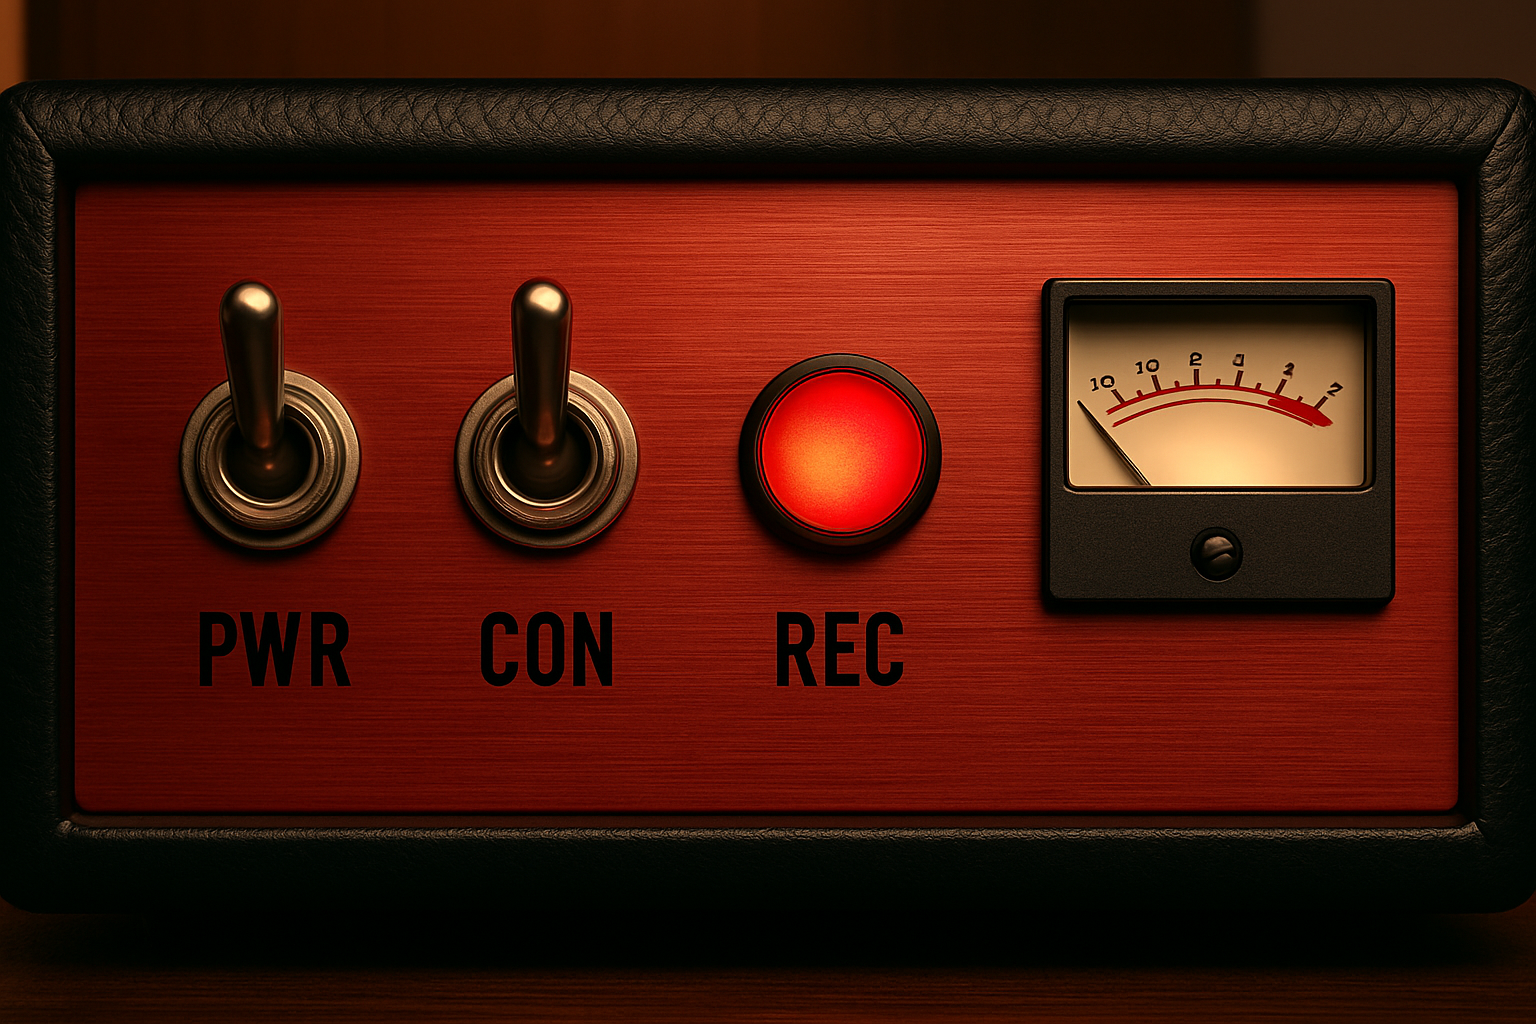
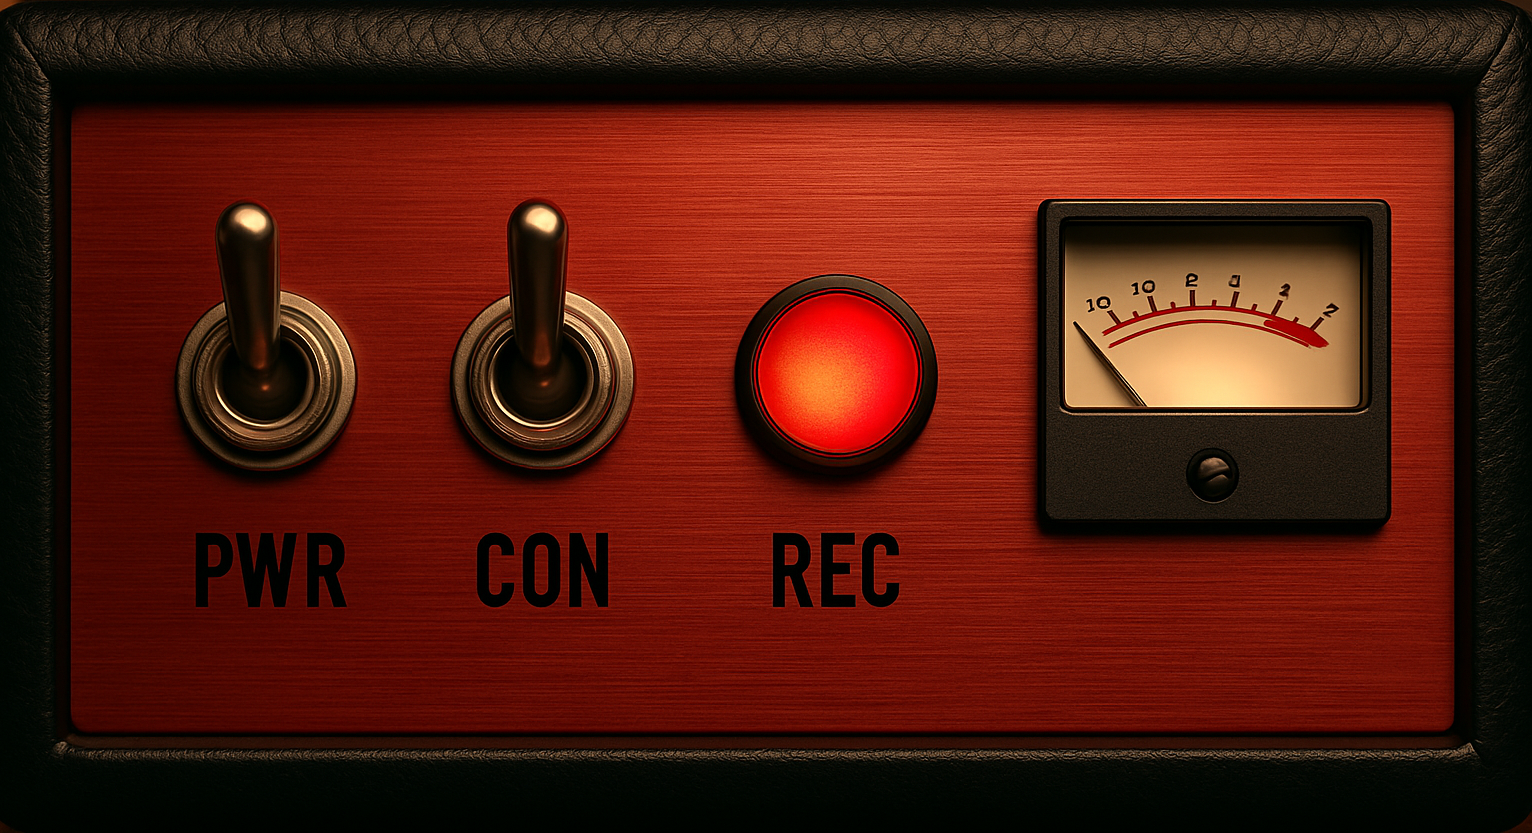
amp in the background

diff --git a/src/App.css b/src/App.css
@@ -63,10 +63,13 @@ h1 {
   width: 100%;
   overflow: hidden;
   background-color: #2b1f1a;
+  display: flex;
+  justify-content: center;
+  padding: 20px 0;
 }
 
 .banner img {
-  width: 100%;
+  width: 70%;
   height: auto;
   display: block;
   object-fit: contain;
@@ -83,34 +86,56 @@ h1 {
 }
 
 .button-row {
-  display: flex;
-  gap: 10px;
-  flex-wrap: wrap;
+  display: grid;
+  grid-template-columns: repeat(7, 1fr);
+  gap: 1px;
+  background-image: url('./assets/amp.png');
+  background-size: contain;
+  background-repeat: no-repeat;
+  background-position: center;
   padding: 20px;
-  background-color: #2b1f1a;
-  border-bottom: 1px solid #3a2a24;
+  border-radius: 8px;
+  margin: 20px auto;
+  position: relative;
+  width: 70%;
+  aspect-ratio: 16/9;
 }
 
 .button-row button {
-  padding: 8px 16px;
-  background: #56b3c3;
-  border: none;
-  color: #000;
+  position: relative;
+  z-index: 2;
+  background: rgba(43, 31, 26, 0.8);
+  border: 1px solid rgba(255, 181, 71, 0.3);
+  color: #ffb547;
+  padding: 12px;
   cursor: pointer;
-  border-radius: 5px;
-  font-family: 'Orbitron', sans-serif;
-  transition: all 0.2s ease;
+  transition: all 0.3s ease;
+  border-radius: 4px;
+  font-weight: 500;
+  text-transform: uppercase;
+  font-size: 0.9rem;
+  letter-spacing: 0.5px;
+  height: 100%;
+  display: flex;
+  align-items: center;
+  justify-content: center;
+  text-align: center;
 }
 
-.button-row button:hover:not(:disabled) {
-  background: #4a9eac;
+.button-row button:hover {
+  background: rgba(255, 181, 71, 0.2);
+  border-color: #ffb547;
+  transform: translateY(-2px);
+  box-shadow: 0 4px 12px rgba(255, 181, 71, 0.2);
 }
 
 .button-row button:disabled {
-  background: #3a2a24;
-  color: #666;
+  background: rgba(43, 31, 26, 0.4);
+  border-color: rgba(255, 181, 71, 0.1);
+  color: rgba(255, 181, 71, 0.3);
   cursor: not-allowed;
-  opacity: 0.7;
+  transform: none;
+  box-shadow: none;
 }
 
 .main-content {
